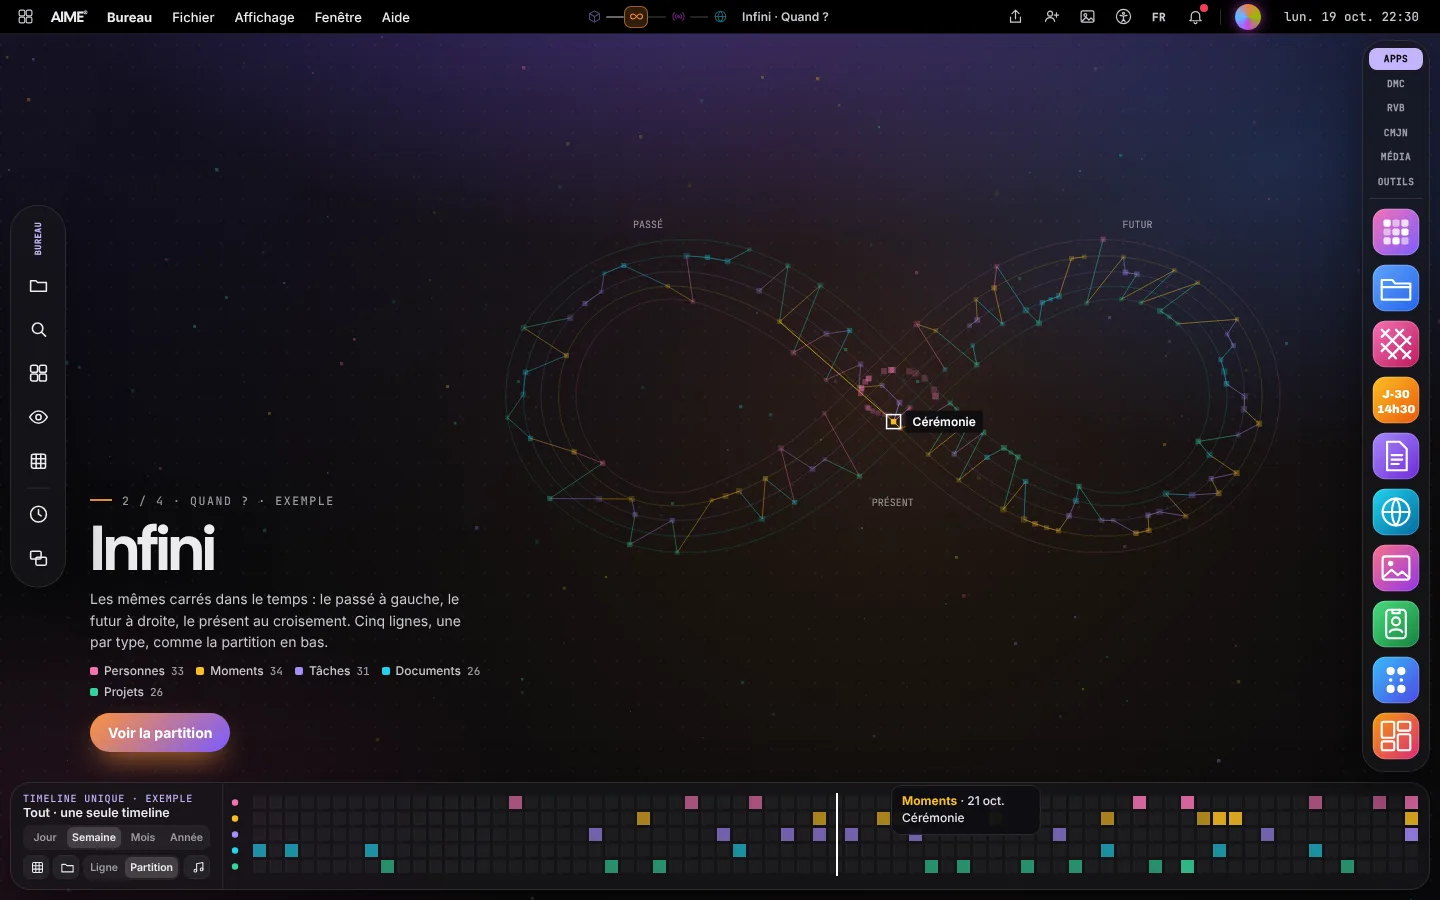
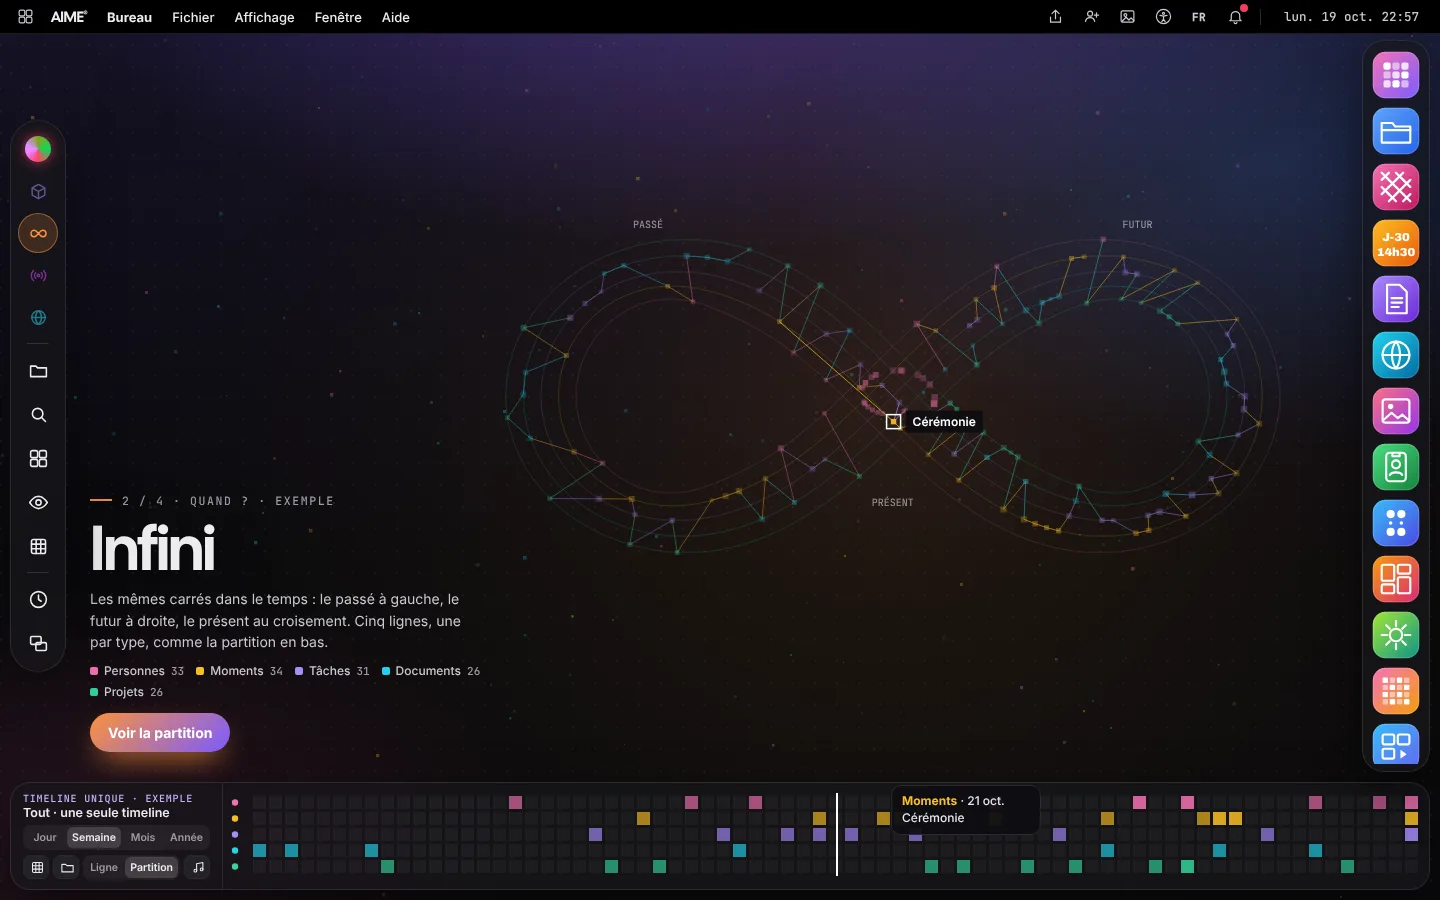
Bureau : la colonne droite devient celle de l'app (DMC, médias, outils) sans boutons texte ; l'orbe AIME et les 4 vues au sommet de la capsule, visite guidée de vue en vue puis présentation au centre, visite des outils à la première ouverture d'une app ; captures et textes mis à jour
Claude-Session: https://claude.ai/code/session_019FKMJYJuG8K8HfAcoDT8BB

diff --git a/bureau/index.html b/bureau/index.html
@@ -847,6 +847,20 @@ body.wp-aime #uv p{font-size:14px;max-width:44ch}
 .tp-tip{position:absolute;top:2px;z-index:3;min-width:150px;max-width:220px;background:rgba(14,14,18,.94);border:1px solid var(--line);border-radius:10px;padding:7px 10px;font:500 12px/1.4 var(--ui);color:#E7E7EE;pointer-events:none}
 body.tlpart #tlt{overflow:hidden}
 @media(max-width:760px){body.wp-aime #uv{width:auto}body.wp-aime #uv h1{font-size:40px!important}#uv .m4l{display:none}#menubar .scn{position:fixed;top:calc(36px + env(safe-area-inset-top,0px));left:50%;transform:translateX(-50%);background:rgba(14,14,18,.78);backdrop-filter:blur(10px);-webkit-backdrop-filter:blur(10px);border:1px solid rgba(255,255,255,.1);border-radius:999px;padding:3px 6px}#menubar .scn .m4t{display:block;width:10px}.tl-l{width:auto!important;max-width:200px}.tl-l .ib{width:24px}}
+/* v12 : colonne droite = celle de l'app ; orbe et vues au sommet de la capsule */
+.rl-mode{display:none!important}
+#rapps{width:40px;height:40px;flex:none;margin:0 auto 6px;border-radius:12px;border:1px solid rgba(255,255,255,.14);background:rgba(255,255,255,.06);color:var(--ink);display:grid;place-items:center;cursor:pointer}
+#rapps[hidden]{display:none}
+#rapps svg{width:18px;height:18px;fill:none;stroke:currentColor;stroke-width:1.8}
+#rapps[aria-pressed=true]{background:var(--mc,#fff);color:#0B0B0D;border-color:transparent}
+#tools .tvw{display:flex;flex-direction:column;align-items:center;gap:2px}
+#tools .orbslot2{width:40px;height:40px;flex:none;display:block}
+#tools [data-m4v]{color:var(--c);opacity:.55}
+#tools [data-m4v] svg{width:19px;height:19px}
+#tools [data-m4v]:hover{opacity:1}
+#tools [data-m4v][aria-pressed=true]{opacity:1;background:color-mix(in srgb,var(--c) 18%,transparent);box-shadow:inset 0 0 0 1px color-mix(in srgb,var(--c) 50%,transparent)}
+#orbf.tour{width:34px;height:34px;margin:-17px 0 0 -17px;box-shadow:0 0 0 3px rgba(0,0,0,.35),0 0 26px rgba(124,92,255,.9)}
+@media(min-width:761px){#menubar .scn,#menubar .orbslot{display:none}}
 #uv h1,.un-h h2,.un-s h3,.or-l h2,.ny-h h2,.gl-l h2,.ps-h h2,#cardwp h2,.tc header b,#sp h3,#wpk h3,.tx-e h3,.gu-s h3,.uc b,.ucard .b h4,.ov-h h2,.lib-d h3,.cdt h3,.board .bwm,.or-clock,.mo-d h3,.cd,.wg-clock,#who h2,.mt b,.uni b{font-family:var(--display)!important;font-weight:400!important;text-transform:none!important;letter-spacing:-.025em!important;font-stretch:100%!important}
 #uv h1{font-size:clamp(60px,7.4vw,118px)!important;line-height:.95!important}
 .or-clock{letter-spacing:-.035em!important}
@@ -2199,6 +2213,47 @@ try{var _m4=+localStorage.getItem('aime-m4');if(_m4>=0&&_m4<4)M4.v=M4.from=_m4}c
 if(!WP.k||WP.k==='univers'){WP.k='aime';try{localStorage.setItem('aime-wp','aime')}catch(_){}}
 if(WP.k==='aime'){M4.v=M4.from=0;document.body.classList.add('wp-aime','wp-other');wpInfo();pxKick();setTimeout(m4Auto,2500)}
 if(!PX.W)pxLayout();scRender();tlRender();
+/* ---------- v12 : la colonne droite devient celle de l'app ; l'orbe et les 4 vues au sommet de la capsule ---------- */
+var APPRAIL={fichiers:'media',accessibilite:'tools'};
+RAIL.showApps=false;RAIL.lastApp=null;
+$('#rail').insertAdjacentHTML('afterbegin','<button id="rapps" type="button" aria-label="Revenir aux apps" title="Revenir aux apps" hidden><svg viewBox="0 0 24 24" aria-hidden="true"><rect x="4" y="4" width="6" height="6" rx="1.5"/><rect x="14" y="4" width="6" height="6" rx="1.5"/><rect x="4" y="14" width="6" height="6" rx="1.5"/><rect x="14" y="14" width="6" height="6" rx="1.5"/></svg></button>');
+$('#rapps').addEventListener('click',function(){RAIL.showApps=!RAIL.showApps;modeRender()});
+var _mr12=modeRender;modeRender=function(){var a=activeApp();if(a!==RAIL.lastApp){RAIL.lastApp=a;RAIL.showApps=false;setTimeout(function(){toolTour(a)},900)}RAIL.k=APPRAIL[a]||null;_mr12();
+ var M=MODES[curMode()],alt=!!M.pal||!!RAIL.k,b=$('#rapps');document.body.classList.toggle('rail-alt',alt);b.hidden=!alt||innerWidth<=760;
+ if(alt&&RAIL.showApps&&innerWidth>760){$('#dock').hidden=false;$('#sw').hidden=true;$('#rmedia').hidden=true;$('#rtools').hidden=true}
+ var lab=RAIL.showApps?'Revenir à '+(RAIL.k==='media'?'la playlist':RAIL.k==='tools'?'la boîte à outils':'au nuancier'):'Revenir aux apps';b.setAttribute('aria-label',lab);b.title=lab;b.setAttribute('aria-pressed',String(RAIL.showApps))};
+ZONEX[1][2]='En haut, l\'orbe AIME et les quatre vues du fond. Dessous, les outils de l\'app ouverte.';
+ZONEX[2][2]='Vos apps. Ouvrez une app : la colonne devient la sienne. Fils DMC pour la broderie, couleurs écran pour le web, couleurs d\'impression pour l\'édition, playlist pour les médias. Le picto du haut ramène les apps.';
+/* la capsule de gauche : l'orbe au sommet, puis les 4 vues sur le Bureau */
+var _tr12=toolsRender;toolsRender=function(m){_tr12(m);var t=$('#tools');var tm=t.querySelector('.tm');if(tm)tm.remove();var home=!activeApp();
+ t.insertAdjacentHTML('afterbegin','<div class="tvw"><span class="orbslot2" aria-hidden="true"></span>'+(home?M4V.map(function(V,i){return'<button data-m4v="'+i+'" aria-pressed="'+(WP.k==='aime'&&M4.v===i)+'" aria-label="'+esc(V.n+' · '+V.q)+'" title="'+esc(V.n+' · '+V.q)+'" style="--c:'+V.c+'"><svg viewBox="0 0 24 24" aria-hidden="true">'+M4I[V.k]+'</svg></button>'}).join(''):'')+'</div><hr>');
+ if(ORB.el&&ORB.home){var h=orbHome();orbPlace(h.x,h.y)}};
+$('#tools').addEventListener('click',function(e){var b=e.target.closest('[data-m4v]');if(!b)return;if(WP.k==='scene'){sceneShow(null);document.body.classList.remove('wp-scene')}m4Go(+b.dataset.m4v,true)});
+$('#tools').addEventListener('mouseover',function(e){var b=e.target.closest('[data-m4v]');if(!b||!tip)return;tip.textContent=b.getAttribute('aria-label');var r=b.getBoundingClientRect();tip.style.left=Math.round(r.right+10)+'px';tip.style.top=Math.round(r.top+r.height/2-14)+'px';tip.hidden=false});
+function m4Marks(){$$('#tools [data-m4v]').forEach(function(b){b.setAttribute('aria-pressed',String(WP.k==='aime'&&M4.v===+b.dataset.m4v))})}
+orbHome=function(){var s=$('#tools .orbslot2');if(s&&innerWidth>760&&s.offsetParent){var r=s.getBoundingClientRect();if(r.width)return{x:r.left+r.width/2,y:r.top+r.height/2}}var b=$('#menubar .orbslot');if(!b)return{x:innerWidth-170,y:15};var q=b.getBoundingClientRect();return{x:q.left+q.width/2,y:q.top+q.height/2}};
+/* la visite : l'orbe descend de vue en vue et commente, puis vient au centre se présenter */
+var TOUR={on:false,steps:null,i:0,t:0};
+var M4S=['Au centre, vous. Chaque carré est une chose de votre vie, toujours de la même couleur.','Les mêmes carrés dans le temps : le passé à gauche, le futur à droite.','Les mêmes carrés par conséquences : ce qui dépend de quoi.','Les mêmes carrés sur la Terre : qui est où.'];
+function tourAt(el,t,d){if(!ORB.el||!el)return;var r=el.getBoundingClientRect();if(!r.width)return;TOUR.on=true;ORB.home=false;ORB.att=null;ORB.el.classList.remove('free','att');ORB.el.classList.add('tour');$$('.tour-on').forEach(function(x){x.classList.remove('tour-on')});el.classList.add('tour-on');orbPlace(r.left+r.width/2,r.top+r.height/2,true);setTimeout(function(){if(TOUR.on)orbTip({t:t,d:d})},450)}
+function tourEnd(){if(!TOUR.on)return;TOUR.on=false;clearTimeout(TOUR.t);$$('.tour-on').forEach(function(x){x.classList.remove('tour-on')});if(ORB.el){ORB.el.classList.remove('tour');ORB.tip.hidden=true;setTimeout(function(){if(!ORB.drag)orbGoHome();else{ORB.home=false;ORB.el.classList.add('free')}},0)}}
+function m4Tour(i){var V=M4V[i],el=$('#tools [data-m4v="'+i+'"]');if(!el||!el.offsetParent)el=$('#menubar [data-m4="'+i+'"]');tourAt(el,(i+1)+' / 4 · '+V.n+' · '+V.q,M4S[i])}
+var _m4Go12=m4Go;m4Go=function(i,manual){_m4Go12(i,manual);m4Marks();if(!manual&&M4.auto&&!(M4.autoN>=4))m4Tour(M4.v)};
+var _m4Stop12=m4Stop;m4Stop=function(){var natural=!!M4.auto&&M4.autoN>=4;_m4Stop12();if(natural)orbIntro();else tourEnd()};
+setTimeout(function(){if(M4.auto&&!M4.stopped)m4Tour(M4.v)},2700);
+function orbIntro(){if(!ORB.el)return;$$('.tour-on').forEach(function(x){x.classList.remove('tour-on')});ORB.el.classList.remove('tour');var n=0;try{n=+localStorage.getItem('aime-orb-intro')||0;localStorage.setItem('aime-orb-intro',n+1)}catch(_){}if(n>=3){TOUR.on=true;tourEnd();return}
+ TOUR.on=true;ORB.home=false;ORB.el.classList.add('free');orbPlace(innerWidth*(innerWidth>760?.5:.5),innerHeight*.4,true);
+ setTimeout(function(){if(!TOUR.on)return;orbTip({t:'Je suis AIME',d:'Prenez-moi et posez-moi sur n\'importe quoi : une app, un moment de la timeline, un champ, une fenêtre. Je vous explique ce que c\'est, et je peux le faire à votre place.'},[['Compris, retourne en haut',function(){tourEnd()}],['Me poser sur la timeline',function(){TOUR.on=false;var r=$('#tl').getBoundingClientRect();orbPlace(r.left+r.width*.55,r.top+r.height*.45,true);setTimeout(function(){orbExplain(true)},800)}]])},750);
+ TOUR.t=setTimeout(function(){if(TOUR.on&&!ORB.drag)tourEnd()},16000)}
+document.addEventListener('pointerdown',function(e){if(!TOUR.on||M4.auto||TOOLT.on)return;if(e.target.closest('#orbf,#orbtip'))return;tourEnd()},true);
+/* dans une app : la première fois, l'orbe passe d'outil en outil */
+var TOOLT={on:false,t:0};
+function toolTour(a){if(!a||!APP[a]||!ORB.el||innerWidth<=760||M4.auto||TOUR.on)return;var done={};try{done=JSON.parse(localStorage.getItem('aime-tour')||'{}')}catch(_){}if(done[a])return;
+ var L=$$('#tools [data-at],#tools [data-tool],#tools [data-pan]').filter(function(b){return b.offsetParent}).slice(0,8);if(!L.length)return;done[a]=1;try{localStorage.setItem('aime-tour',JSON.stringify(done))}catch(_){}
+ TOOLT.on=true;var i=-1;function step(){if(!TOOLT.on)return;i++;if(i>=L.length){TOOLT.on=false;tourEnd();return}tourAt(L[i],i===0?APP[a].n+' · ses outils':L[i].getAttribute('aria-label'),i===0?L[i].getAttribute('aria-label')+'. Je vous montre les autres, un par un.':'');TOOLT.t=setTimeout(step,i===0?2600:1700)}
+ var s=$('#tools .orbslot2');if(s)tourAt(s,APP[a].n,'Voici ses outils. Je passe de l\'un à l\'autre.');TOOLT.t=setTimeout(step,1900)}
+['pointerdown','keydown'].forEach(function(ev){window.addEventListener(ev,function(e){if(!TOOLT.on)return;if(e.target.closest&&e.target.closest('#orbf,#orbtip'))return;TOOLT.on=false;clearTimeout(TOOLT.t);tourEnd()},true)});
+modeRender();
 var h=(location.hash||'').slice(1);
 if(h&&APP[h]&&!APP[h].ext)open(h);
 else{var reopen=Object.keys(saved).filter(function(k){return saved[k].open&&APP[k]&&!APP[k].ext});if(reopen.length)reopen.forEach(function(k){open(k);if(saved[k].min)minWin(k)})}

diff --git a/monde/bureau/index.html b/monde/bureau/index.html
@@ -30,4 +30,4 @@ section.s .shot{grid-column:1/-1}
 .idx div{padding:0 16px 16px;display:grid;gap:4px}.idx b{font:400 24px/1.1 var(--d);letter-spacing:-.025em}.idx span{color:var(--dim);font-size:14.5px}
 footer{padding-block:40px;color:var(--mute);font-size:13.5px}
 @media(max-width:1180px){.bar nav{display:none}}@media(max-width:760px){.bar .btn{margin-left:auto}}
-@media(prefers-reduced-motion:reduce){html{scroll-behavior:auto}}</style></head><body><header class="bar"><div class="w"><a class="mk" href="/">AIME<sup>®</sup></a><nav aria-label="Comprendre AIME"><a href="/monde/bureau/" aria-current="page">Le Bureau</a><a href="/monde/timeline/">La timeline unique</a><a href="/monde/causalite/">La causalité</a><a href="/monde/moteurs/">Univers et moteurs</a><a href="/monde/studios/">Les studios</a><a href="/monde/identite/">Identité et cartes</a><a href="/monde/noyau/">Le Noyau</a><a href="/monde/monde/">Le Monde</a></nav><a class="btn" href="/bureau/">Entrer dans le Bureau</a></div></header><main class="w"><header class="h"><span class="k">Comprendre AIME · 01</span><h1>Un système d&#x27;exploitation, sans rien à installer</h1><p>Le Bureau AIME tient dans un navigateur. Il ne garde que l&#x27;essentiel à l&#x27;écran, et chaque bord change selon ce que vous touchez.</p><div class="cta"><a class="btn" href="/bureau/">Voir dans le Bureau →</a><a class="btn g" href="/monde/">Tous les chapitres</a></div></header><figure class="shot"><img src="/sup/ed-bureau.webp" alt="Le Bureau dans le Bureau AIME" width="1440" height="900"><figcaption>aimestudio.vercel.app/bureau · Le Bureau</figcaption></figure><section class="s"><div><span class="k">01.1</span><h2>Une matière, quatre vues</h2></div><div><p>Le fond d&#x27;écran n&#x27;est pas une image : ce sont vos choses. Chaque carré est une personne, un moment, une tâche, un document ou un projet, avec sa couleur. Le Noyau les montre autour de vous, l&#x27;Infini dans le temps, l&#x27;Onde par conséquences, la Carte sur la Terre. En passant d&#x27;une vue à l&#x27;autre, chaque carré glisse jusqu&#x27;à sa nouvelle place, et les fils qui les relient suivent.</p><ul><li>Qui : le Noyau</li><li>Quand : l&#x27;Infini, passé à gauche, futur à droite</li><li>Pourquoi : l&#x27;Onde, de cause en conséquence</li><li>Où : la Carte</li></ul></div><figure class="shot"><img src="/sup/ed-vues.webp" alt="Une matière, quatre vues" width="1440" height="900" loading="lazy"></figure></section><section class="s"><div><span class="k">01.2</span><h2>La barre du système</h2></div><div><p>En haut, une bande noire. À gauche : la bibliothèque, le menu AIME, le menu de l&#x27;app ouverte, Fichier, Affichage, Fenêtre, Aide. Au centre : quatre pictos colorés, les quatre vues du monde AIME, qui défilent une fois à l&#x27;ouverture. À droite : exporter, inviter, fonds d&#x27;écran, accessibilité, langue, notifications, l&#x27;orbe AIME et l&#x27;heure, qui ouvre les widgets.</p><ul><li>Un seul endroit pour exporter, quelle que soit l&#x27;app</li><li>Inviter une personne avec un rôle</li><li>Six langues pour l&#x27;interface</li><li>L&#x27;heure ouvre calendrier, compte à rebours et mémo</li></ul></div></section><section class="s"><div><span class="k">01.3</span><h2>Deux capsules qui changent de rôle</h2></div><div><p>À gauche, la capsule d&#x27;outils : sur le Bureau, elle range ; dans Stitchlab, elle brode ; dans Docs, elle ajoute une ligne et numérote. À droite, la colonne passe des apps aux couleurs (DMC, RVB, CMJN), aux médias ou aux outils de mise en page.</p><ul><li>Rien ne s&#x27;accumule : la même place sert à tout</li><li>Les couleurs suivent le métier : fils DMC pour broder, RVB pour l&#x27;écran, CMJN pour l&#x27;impression</li><li>Les pochettes des médias se lisent d&#x27;un clic</li></ul></div></section><section class="s"><div><span class="k">01.4</span><h2>L&#x27;orbe AIME</h2></div><div><p>L&#x27;assistant n&#x27;est pas une fenêtre de discussion : c&#x27;est un rond que l&#x27;on prend et que l&#x27;on pose. Survolé, un élément s&#x27;explique. Posé sur une fenêtre, l&#x27;orbe s&#x27;y accroche et propose la suite. Posé sur un champ, il propose un texte. Interrogé, il se déplace et ouvre lui-même l&#x27;app.</p><ul><li>Fonctionne sans clé ni abonnement</li><li>Comprend « rappel demain 10h », « ouvre Stitchlab », « qu&#x27;est-ce que j&#x27;ai demain ? »</li><li>Lit à voix haute si on le souhaite</li></ul></div><figure class="shot"><img src="/sup/ed-orbe.webp" alt="L&#x27;orbe AIME" width="1440" height="900" loading="lazy"></figure></section><nav class="nx" aria-label="Chapitres"><a href="/monde/monde/"><small>← Précédent · 08</small><b>Le Monde</b></a><a href="/monde/timeline/"><small>Suivant · 02 →</small><b>La timeline unique</b></a></nav></main><footer><div class="w">AIME® · Architecture Intelligente de la Mémoire Ensemble · <a href="/">Le monde AIME</a></div></footer></body></html>
+@media(prefers-reduced-motion:reduce){html{scroll-behavior:auto}}</style></head><body><header class="bar"><div class="w"><a class="mk" href="/">AIME<sup>®</sup></a><nav aria-label="Comprendre AIME"><a href="/monde/bureau/" aria-current="page">Le Bureau</a><a href="/monde/timeline/">La timeline unique</a><a href="/monde/causalite/">La causalité</a><a href="/monde/moteurs/">Univers et moteurs</a><a href="/monde/studios/">Les studios</a><a href="/monde/identite/">Identité et cartes</a><a href="/monde/noyau/">Le Noyau</a><a href="/monde/monde/">Le Monde</a></nav><a class="btn" href="/bureau/">Entrer dans le Bureau</a></div></header><main class="w"><header class="h"><span class="k">Comprendre AIME · 01</span><h1>Un système d&#x27;exploitation, sans rien à installer</h1><p>Le Bureau AIME tient dans un navigateur. Il ne garde que l&#x27;essentiel à l&#x27;écran, et chaque bord change selon ce que vous touchez.</p><div class="cta"><a class="btn" href="/bureau/">Voir dans le Bureau →</a><a class="btn g" href="/monde/">Tous les chapitres</a></div></header><figure class="shot"><img src="/sup/ed-bureau.webp" alt="Le Bureau dans le Bureau AIME" width="1440" height="900"><figcaption>aimestudio.vercel.app/bureau · Le Bureau</figcaption></figure><section class="s"><div><span class="k">01.1</span><h2>Une matière, quatre vues</h2></div><div><p>Le fond d&#x27;écran n&#x27;est pas une image : ce sont vos choses. Chaque carré est une personne, un moment, une tâche, un document ou un projet, avec sa couleur. Le Noyau les montre autour de vous, l&#x27;Infini dans le temps, l&#x27;Onde par conséquences, la Carte sur la Terre. En passant d&#x27;une vue à l&#x27;autre, chaque carré glisse jusqu&#x27;à sa nouvelle place, et les fils qui les relient suivent.</p><ul><li>Qui : le Noyau</li><li>Quand : l&#x27;Infini, passé à gauche, futur à droite</li><li>Pourquoi : l&#x27;Onde, de cause en conséquence</li><li>Où : la Carte</li></ul></div><figure class="shot"><img src="/sup/ed-vues.webp" alt="Une matière, quatre vues" width="1440" height="900" loading="lazy"></figure></section><section class="s"><div><span class="k">01.2</span><h2>La barre du système</h2></div><div><p>En haut, une bande noire. À gauche : la bibliothèque, le menu AIME, le menu de l&#x27;app ouverte, Fichier, Affichage, Fenêtre, Aide.  À droite : exporter, inviter, fonds d&#x27;écran, accessibilité, langue, notifications, l&#x27;orbe AIME et l&#x27;heure, qui ouvre les widgets.</p><ul><li>Un seul endroit pour exporter, quelle que soit l&#x27;app</li><li>Inviter une personne avec un rôle</li><li>Six langues pour l&#x27;interface</li><li>L&#x27;heure ouvre calendrier, compte à rebours et mémo</li></ul></div></section><section class="s"><div><span class="k">01.3</span><h2>Deux capsules qui changent de rôle</h2></div><div><p>À gauche, la capsule d&#x27;outils. À son sommet, l&#x27;orbe AIME, puis, sur le Bureau, les quatre vues du fond. Dessous, les outils de l&#x27;app ouverte : dans Stitchlab elle brode, dans Docs elle ajoute une ligne et numérote. À droite, le Dock de vos apps ; ouvrez une app et la colonne devient la sienne : les fils DMC pour la broderie, la playlist pour les médias.</p><ul><li>Rien ne s&#x27;accumule : la même place sert à tout</li><li>Les couleurs suivent le métier : fils DMC pour broder, couleurs écran pour le web, couleurs d&#x27;impression pour l&#x27;édition</li><li>Un picto en haut de la colonne ramène les apps</li></ul></div></section><section class="s"><div><span class="k">01.4</span><h2>L&#x27;orbe AIME</h2></div><div><p>L&#x27;assistant n&#x27;est pas une fenêtre de discussion : c&#x27;est un rond, au sommet de la capsule, que l&#x27;on prend et que l&#x27;on pose. À l&#x27;ouverture, il descend de vue en vue pour les présenter, puis vient au centre se présenter ; dans une app, il passe d&#x27;outil en outil. Survolé, un élément s&#x27;explique. Posé sur une fenêtre, l&#x27;orbe s&#x27;y accroche et propose la suite. Posé sur un champ, il propose un texte. Interrogé, il se déplace et ouvre lui-même l&#x27;app.</p><ul><li>Fonctionne sans clé ni abonnement</li><li>Comprend « rappel demain 10h », « ouvre Stitchlab », « qu&#x27;est-ce que j&#x27;ai demain ? »</li><li>Lit à voix haute si on le souhaite</li></ul></div><figure class="shot"><img src="/sup/ed-orbe.webp" alt="L&#x27;orbe AIME" width="1440" height="900" loading="lazy"></figure></section><nav class="nx" aria-label="Chapitres"><a href="/monde/monde/"><small>← Précédent · 08</small><b>Le Monde</b></a><a href="/monde/timeline/"><small>Suivant · 02 →</small><b>La timeline unique</b></a></nav></main><footer><div class="w">AIME® · Architecture Intelligente de la Mémoire Ensemble · <a href="/">Le monde AIME</a></div></footer></body></html>
